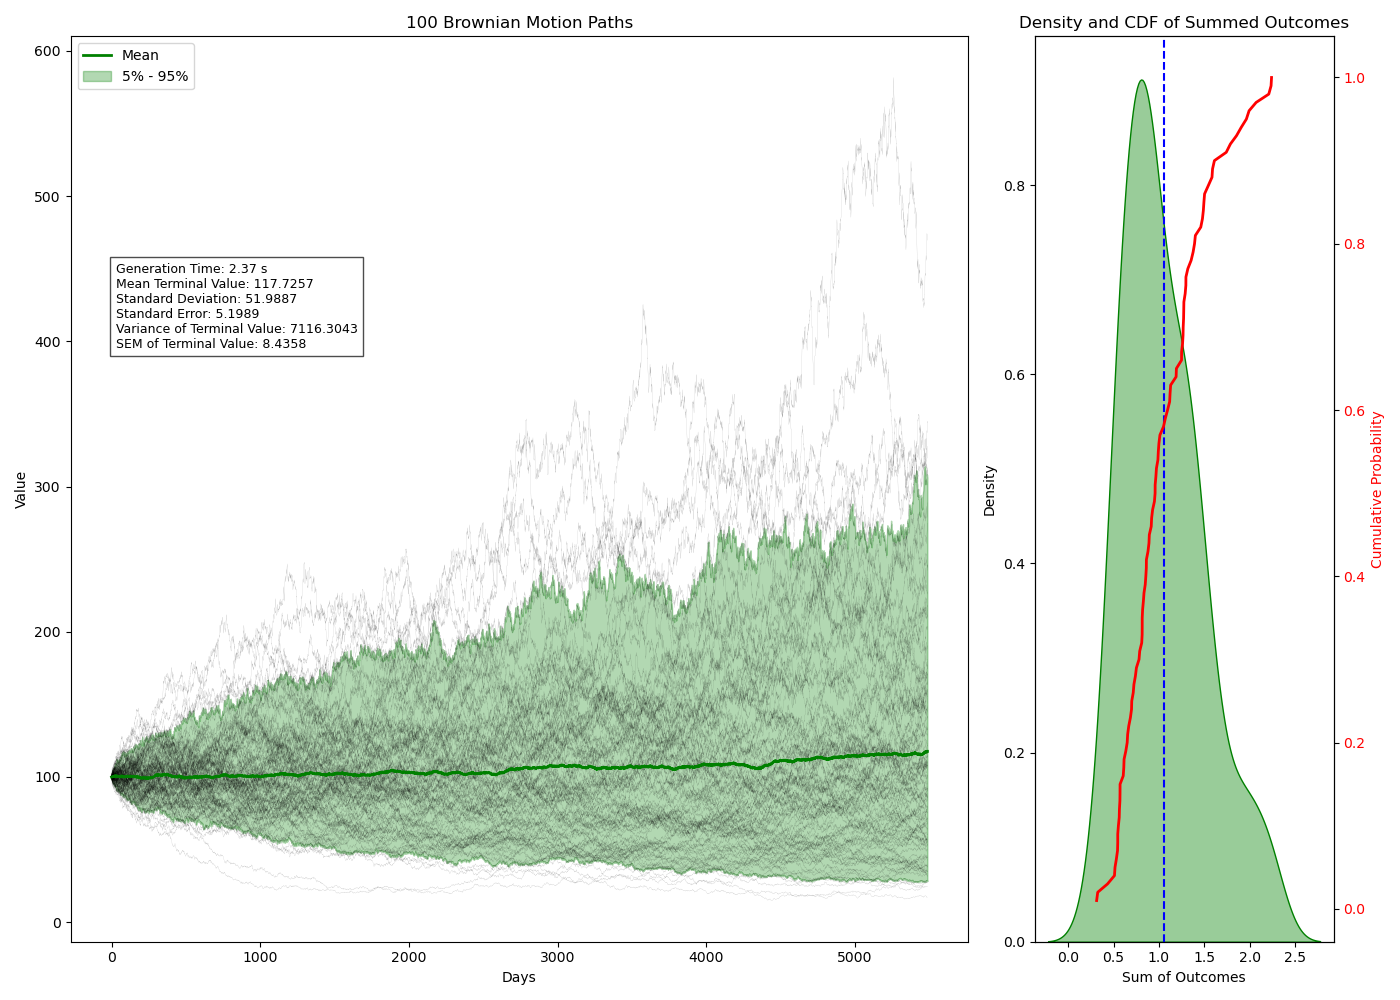
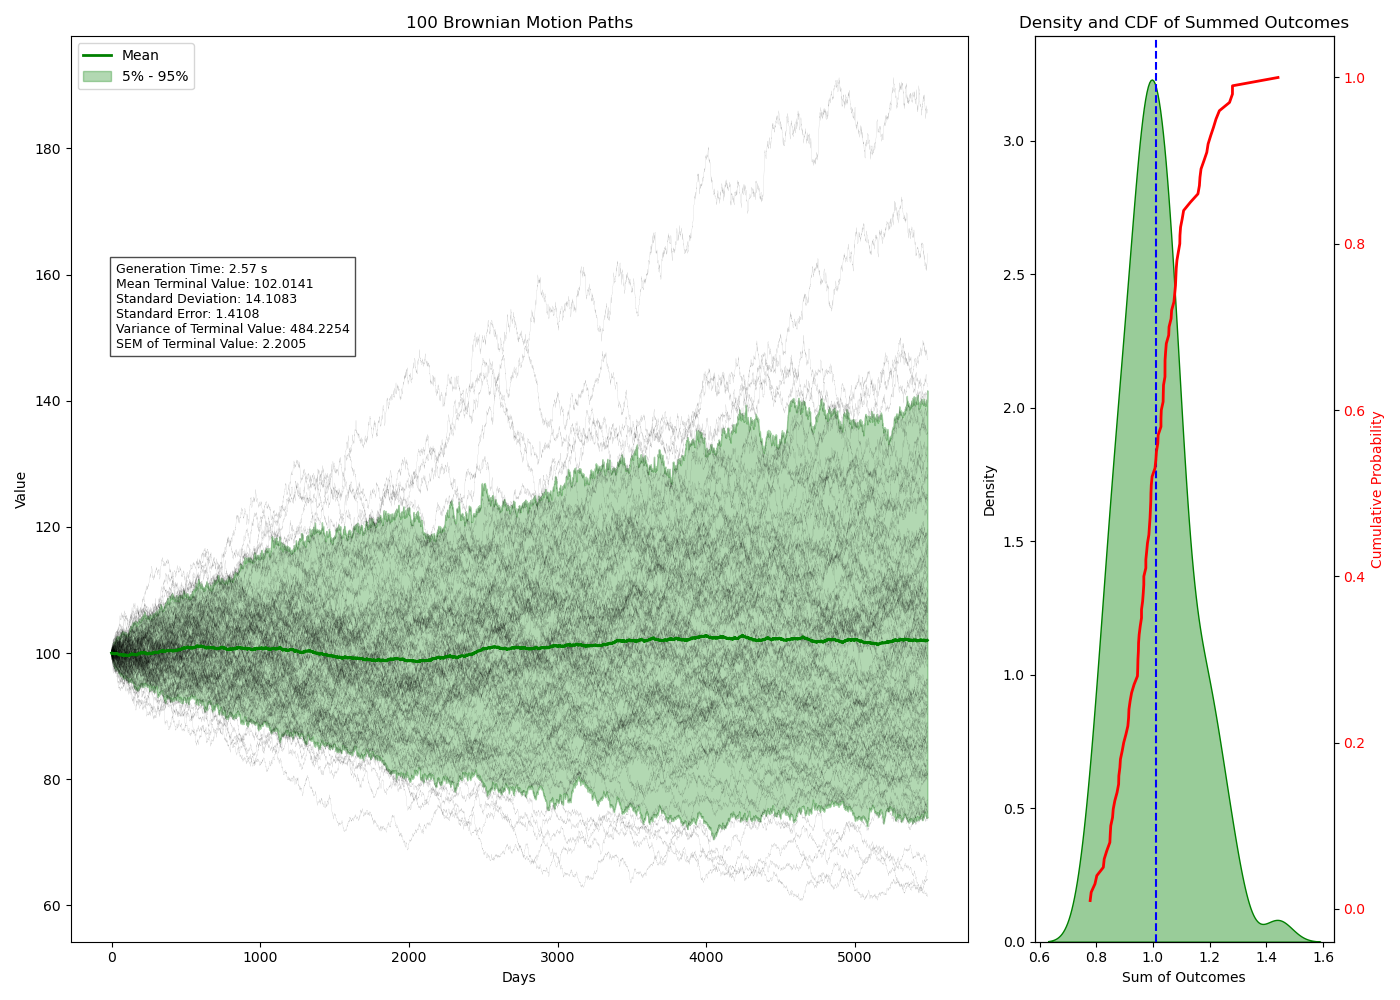
centralised parameter management

diff --git a/pricing_simulation/models.py b/pricing_simulation/models.py
@@ -1,7 +1,6 @@
 import numpy as np
     
-
-def brownian_motion_with_mean_reversion(array: np.array):
+def brownian_motion_with_mean_reversion(array: np.array,params):
     """
     Extension of the simple geometric brownian motion, to include the mean reversion property observed in energy markets.
     Schwartz97.
@@ -19,13 +18,17 @@ def brownian_motion_with_mean_reversion(array: np.array):
     - alpha is the mean reversion rate, which describes the speed at which the spot price reverts to its long term average level
     - T: Total time duration (e.g., in years).
     
-
-
     Returns:
     - np.array: The input array filled with simulated asset prices over time.
     """
-    mu      = 0.01 
-    sigma   = 0.3
+    drift = params["drift"]
+    volatility = params["volatility"]
+    time_horizon = params["time_horizon"]
+    initial_value = params["initial_value"]
+    
+    dt = time_horizon / len(array)
+    drift      = 0.01 
+    volatility   = 0.3
     T       = 5.0
     # Number of steps derived from the length of the array
     steps = len(array)
@@ -34,7 +37,7 @@ def brownian_motion_with_mean_reversion(array: np.array):
     dt = T / steps
     
     # Set the initial value of the asset price
-    array[0] = 100  # You can change this to your desired starting price (e.g., S0)
+    array[0] = initial_value  # You can change this to your desired starting price (e.g., S0)
 
     # Generate the random shocks (Wiener process increments)
     random_shocks = np.random.normal(0, 1, steps - 1)
@@ -42,54 +45,70 @@ def brownian_motion_with_mean_reversion(array: np.array):
     # Iterate through each time step to calculate the price using the GBM formula
     for i in range(1, steps):
         # Calculate the change in the price
-        dS = (mu - 0.5 * sigma**2) * dt + sigma * np.sqrt(dt) * random_shocks[i - 1]
+        dS = (drift - 0.5 * volatility**2) * dt + volatility * np.sqrt(dt) * random_shocks[i - 1]
         
         # Update the price based on the previous price and the calculated change
         array[i] = array[i - 1] * np.exp(dS)
     
     return array
 
-def geometric_brownian_motion(array: np.array):
+def brownian_motion(array, params):
     """
-    Simulates a Geometric Brownian Motion (GBM) path using an input array.
+    Simulates a path of a standard Brownian motion.
     
     Parameters:
-    - array: An array of zeros with length equal to the number of steps.
-    - mu: Drift coefficient, representing the average expected return of the asset.
-    - sigma: Volatility of the asset, representing the randomness in price changes.
-    - T: Total time duration (e.g., in years).
+        array (np.ndarray): Array initialized with zeros, to be filled with the simulated path.
+        params (dict): Dictionary containing model parameters such as:
+            - "drift" (float): The drift coefficient, representing the mean trend of the process.
+            - "volatility" (float): The volatility coefficient, determining the process's variability.
+            - "time_horizon" (float): Total time span for the simulation.
+            - "initial_value" (float): The starting value of the process.
     
     Returns:
-    - np.array: The input array filled with simulated asset prices over time.
+        np.ndarray: A simulated path of the Brownian motion.
+    
+    Explanation:
+    - Uses the drift and volatility terms to generate changes in the value over time.
+    - The time horizon is divided into equal time steps, and each step contributes to the process's evolution.
     """
-    mu      = 0.01 
-    sigma   = 0.3
-    T       = 5.0
-    # Number of steps derived from the length of the array
-    steps = len(array)
+    drift = params["drift"]
+    volatility = params["volatility"]
+    time_horizon = params["time_horizon"]
+    initial_value = params["initial_value"]
     
-    # Calculate the time increment for each step
-    dt = T / steps
-    
-    # Set the initial value of the asset price
-    array[0] = 100  # You can change this to your desired starting price (e.g., S0)
-
-    # Generate the random shocks (Wiener process increments)
-    random_shocks = np.random.normal(0, 1, steps - 1)
-    
-    # Iterate through each time step to calculate the price using the GBM formula
-    for i in range(1, steps):
-        # Calculate the change in the price
-        dS = (mu - 0.5 * sigma**2) * dt + sigma * np.sqrt(dt) * random_shocks[i - 1]
-        
-        # Update the price based on the previous price and the calculated change
-        array[i] = array[i - 1] * np.exp(dS)
+    dt = time_horizon / len(array)
+    for t in range(1, len(array)):
+        array[t] = array[t-1] + drift * dt + volatility * np.sqrt(dt) * np.random.normal()
     
     return array
 
-# Function to generate a single Brownian motion
-def brownian_motion(array: np.array):
-    array[0] = 100 
-    for i in range(1, len(array)):
-        array[i] = array[i - 1] + 0.002 * np.random.uniform(-1, 1)
+def geometric_brownian_motion(array, params):
+    """
+    Simulates a path of a geometric Brownian motion.
+    
+    Parameters:
+        array (np.ndarray): Array initialized with zeros, to be filled with the simulated path.
+        params (dict): Dictionary containing model parameters such as:
+            - "drift" (float): The drift coefficient.
+            - "volatility" (float): Volatility affecting the magnitude of fluctuations.
+            - "time_horizon" (float): Time span of the simulation.
+            - "initial_value" (float): Starting point for the simulation.
+    
+    Returns:
+        np.ndarray: A simulated path of the geometric Brownian motion.
+    
+    Explanation:
+    - Models stock prices or other financial instruments where changes are proportional to the current value.
+    - Evolves according to the stochastic differential equation: dS = μS dt + σS dW.
+    """
+    drift = params["drift"]
+    volatility = params["volatility"]
+    time_horizon = params["time_horizon"]
+    initial_value = params["initial_value"]
+    
+    dt = time_horizon / len(array)
+    array[0] = initial_value
+    for t in range(1, len(array)):
+        array[t] = array[t-1] * np.exp((drift - 0.5 * volatility**2) * dt + volatility * np.sqrt(dt) * np.random.normal())
+    
     return array

diff --git a/pricing_simulation/anciliary.py b/pricing_simulation/anciliary.py
@@ -44,13 +44,26 @@ def calculate_sem_values(paths, k):
     """
     return [np.std(paths[:i, -1]) / np.sqrt(i) for i in range(1, k)]
 
-# Wrapper function to generate and collect k Brownian motions in parallel
-def generate_brownian_motions(func, k: int, steps: int, desc: str = "Generating motions"):
+# anciliary.py
+def generate_brownian_motions(func, k: int, steps: int, params, desc: str = "Generating motions"):
+    """
+    Generates Brownian motion paths using the specified function.
+    
+    Parameters:
+        func (callable): The function to generate the paths (e.g., brownian_motion).
+        k (int): The number of paths to generate.
+        steps (int): The number of time steps for each path.
+        params (dict): Dictionary containing model parameters to be passed to the function.
+        desc (str): Description for the tqdm progress bar.
+        
+    Returns:
+        np.ndarray: A NumPy array containing the generated paths.
+    """
     arrays = [np.zeros(steps) for _ in range(k)]
     results = []
 
     with tqdm(total=k, desc=desc) as pbar, ProcessPoolExecutor() as executor:
-        futures = [executor.submit(func, array) for array in arrays]
+        futures = [executor.submit(func, array, params) for array in arrays]
         for future in as_completed(futures):
             results.append(future.result())
             pbar.update(1)
@@ -200,7 +213,7 @@ def plot_convergence_statistics(convergence_stats, cumulative_means_list, cumula
     print(f"Convergence statistics plot saved to {output_path}")
 
 # Main function to run the simulations
-def run_simulation_for_ks(solver: int, S0, steps, k_values, output_dir):
+def run_simulation_for_ks(solver: int, S0, steps, k_values, output_dir,params):
     convergence_stats = {
         'k_values': [],
         'mean_terminal_values': [],
@@ -214,7 +227,7 @@ def run_simulation_for_ks(solver: int, S0, steps, k_values, output_dir):
 
     for k in k_values:
         start_time = time.time()
-        paths = generate_brownian_motions(solver, k, steps)
+        paths = generate_brownian_motions(solver, k, steps,params)
         elapsed_time = time.time() - start_time
 
         mean_terminal_value = calculate_mean_terminal_value(paths)

diff --git a/main.py b/main.py
@@ -8,6 +8,16 @@ import seaborn as sns
 
 # Define and run the simulation
 def main():
+
+    # Define model parameters in a dictionary
+    model_params = {
+        "drift": 0.05,                # Drift coefficient for Brownian motion models
+        "volatility": 0.2,            # Volatility for the geometric Brownian motion
+        "time_horizon": 5.0,          # Time horizon (in years)
+        "initial_value": 100,         # Starting value of the process
+        # Add other parameters as necessary
+    }
+
     S0 = 100
     steps = 5487
     k_values = [10,100, 500]
@@ -16,9 +26,9 @@ def main():
     output_dir_geometrical_brownian = 'output/geometric_brownian'
     output_dir_trinomial_tree_brownian = 'output/trinonmial_tree'
 
-    ps.anciliary.run_simulation_for_ks(ps.models.brownian_motion, S0, steps, k_values, output_dir_brownian)
-    ps.anciliary.run_simulation_for_ks(ps.models.geometric_brownian_motion, S0, steps, k_values, output_dir_geometrical_brownian)
-    ps.anciliary.run_simulation_for_ks(ps.models.brownian_motion_with_mean_reversion, S0, steps, k_values, output_dir_trinomial_tree_brownian)
+    ps.anciliary.run_simulation_for_ks(ps.models.brownian_motion, S0, steps, k_values, output_dir_brownian,model_params)
+    ps.anciliary.run_simulation_for_ks(ps.models.geometric_brownian_motion, S0, steps, k_values, output_dir_geometrical_brownian,model_params)
+    ps.anciliary.run_simulation_for_ks(ps.models.brownian_motion_with_mean_reversion, S0, steps, k_values, output_dir_trinomial_tree_brownian,model_params)
 
 if __name__ == "__main__":
     main()
